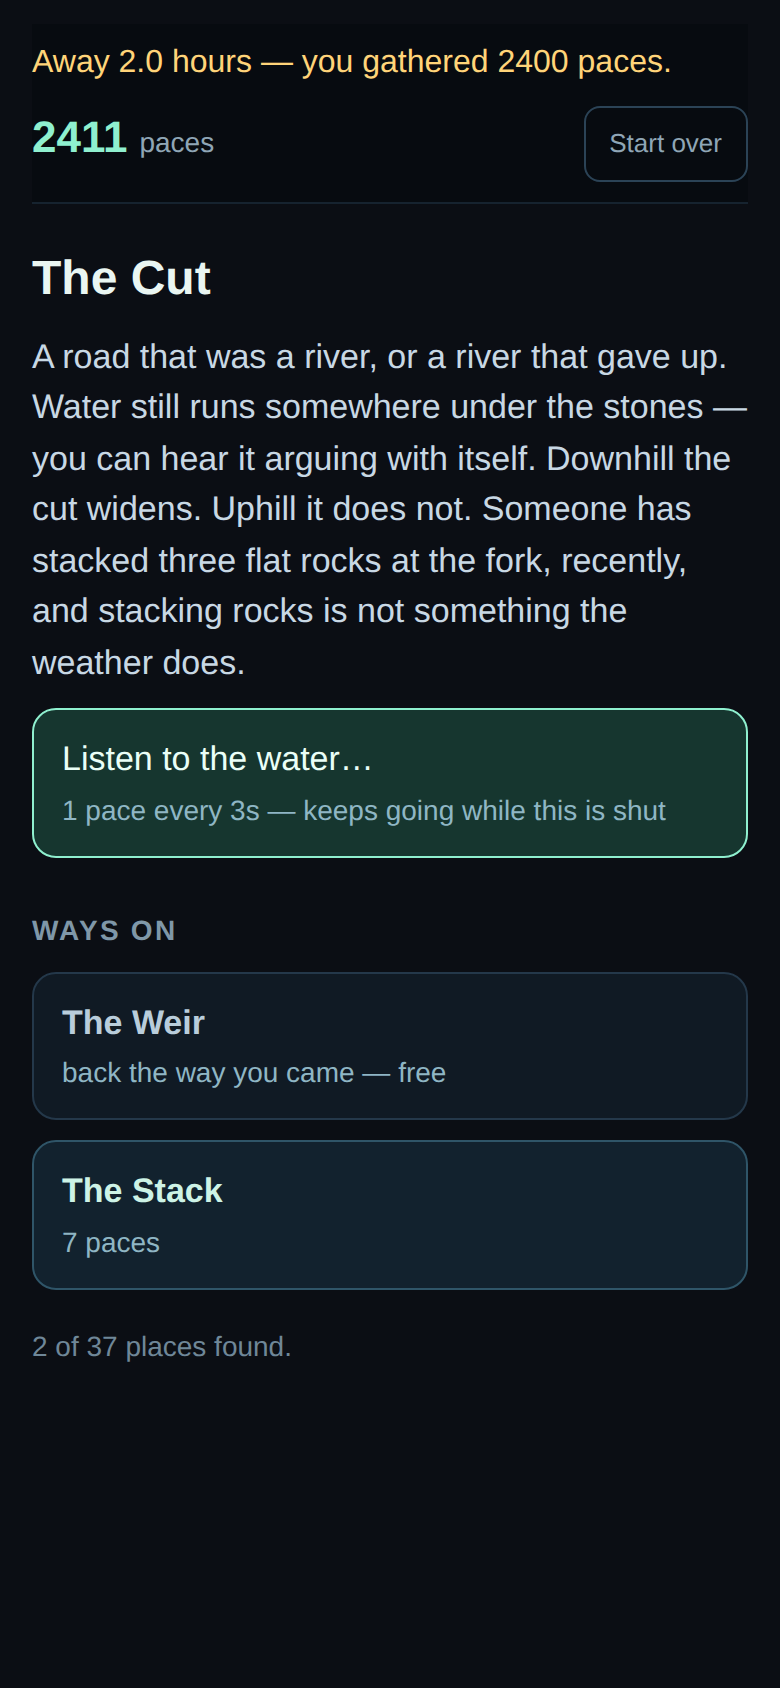
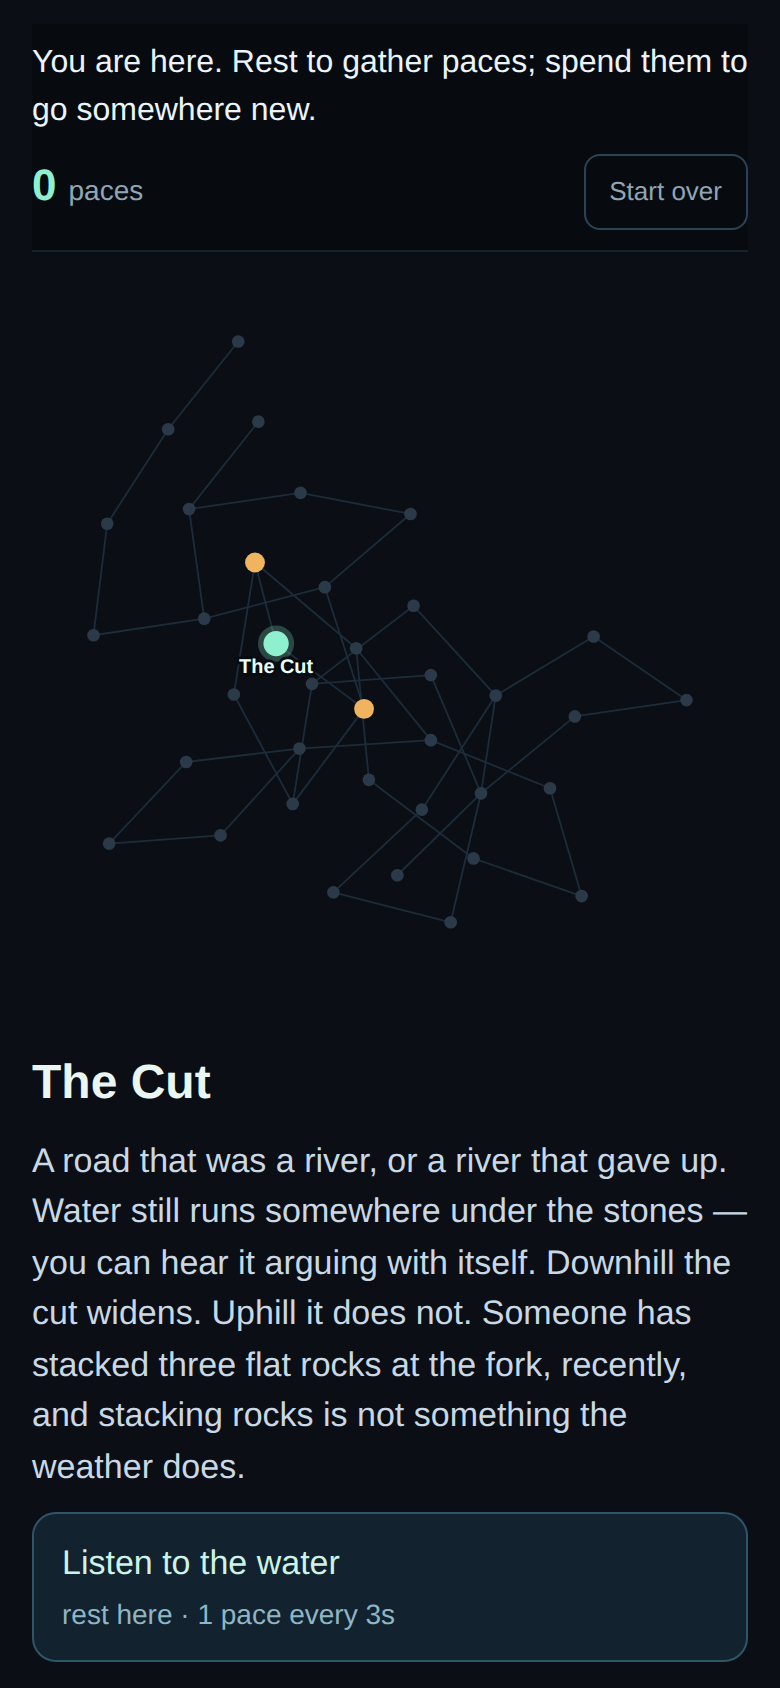
The graph is back, and it is the game again
Drawn first, biggest thing on the screen, not a view you open. What changed
is HOW it is drawn — which is the rule the brief now opens with: if the
graph is hard to draw, change the drawing, never the game.

Three things are gone, and they are exactly the three that broke:

  NO LIVE FORCE SIMULATION. The old board re-solved every frame, so every
  control was a moving target — Playwright could not click them and neither
  could a thumb. `layout.ts` runs 240 fixed passes ONCE at module load and
  the answer never changes again.

  NO CAMERA. The old one sized itself from `window.innerHeight` while the
  box was `100dvh` — different numbers on iOS whenever the URL bar shows.
  There is no camera now: the SVG carries a `viewBox` and the browser does
  the scaling. Nothing measures a window, a screen or a piece of chrome.

  NO RANDOMNESS. Same positions on every device and every load, so a
  screenshot of a bug is one anybody can reproduce.

That also turns the defect that killed the last board into a property of
the DATA rather than something only a browser could catch: "never puts two
places on top of each other" is now a unit test over the solved layout, and
the closest pair is measured rather than eyeballed. Same for "every place
fits inside the viewBox" and "neighbours end up nearer than strangers" —
the last one because a layout that ignored the edges entirely would have
passed everything else.

The valley is drawn whole from the first frame: where you stand is lit,
[…]

diff --git a/src/game/layout.ts b/src/game/layout.ts
@@ -1,0 +1,113 @@
+// WHERE EVERY PLACE SITS ON THE MAP. Solved ONCE, deterministically, at load.
+//
+// ⚠ THIS IS THE THIRD RENDERER AND IT AVOIDS WHAT ACTUALLY FAILED, not graphs.
+// `docs/BRIEF.md` opens with the rule: if the graph is hard to draw, change how
+// it is drawn — never what the game is. So what is gone is the three things
+// that broke, and nothing else:
+//
+//   NO LIVE FORCE SIMULATION. The old board re-solved every frame, which meant
+//   controls were moving targets, Playwright could not click them, and a thumb
+//   had the same problem. This runs a fixed number of passes once, at module
+//   load, and the answer never changes again.
+//
+//   NO CAMERA FITTED TO A MEASURED WINDOW. The old one sized itself from
+//   `window.innerHeight` while the box was `100dvh`, which are different
+//   numbers on iOS whenever the URL bar shows. There is no camera here: the
+//   SVG carries a `viewBox` and the browser does the scaling.
+//
+//   NO RANDOMNESS. Same positions on every device and every load, so a
+//   screenshot of a bug is a screenshot anyone can reproduce.
+import { PLACES, PLACE, START } from './places';
+
+export interface Spot { id: number; x: number; y: number }
+
+/** Rings by distance from the start, which is what a valley looks like when you
+ *  are walking out of it: where you began in the middle, the frontier at the
+ *  edge. It also guarantees a sane starting shape, so the relaxation below only
+ *  has to tidy rather than discover. */
+function seed(): Map<number, { x: number; y: number }> {
+  const depth = new Map<number, number>([[START, 0]]);
+  const q = [START];
+  while (q.length) {
+    const at = q.shift()!;
+    for (const to of PLACE.get(at)!.ways) {
+      if (depth.has(to)) continue;
+      depth.set(to, depth.get(at)! + 1);
+      q.push(to);
+    }
+  }
+  const byRing = new Map<number, number[]>();
+  for (const p of PLACES) {
+    const d = depth.get(p.id) ?? 0;
+    if (!byRing.has(d)) byRing.set(d, []);
+    byRing.get(d)!.push(p.id);
+  }
+  const pos = new Map<number, { x: number; y: number }>();
+  for (const [ring, ids] of byRing) {
+    ids.sort((a, b) => a - b);
+    const r = ring * 34;
+    ids.forEach((id, i) => {
+      // A half-turn offset per ring stops successive rings lining up into
+      // spokes, which is what makes a radial layout look like a wheel.
+      const a = (i / ids.length) * Math.PI * 2 + ring * 0.7;
+      pos.set(id, { x: Math.cos(a) * r, y: Math.sin(a) * r });
+    });
+  }
+  return pos;
+}
+
+/** A few fixed passes of "push everything apart, pull neighbours together".
+ *  Deterministic and bounded: 240 passes over 37 nodes is nothing, it happens
+ *  once, and the result is a constant for the rest of the session. */
+function relax(pos: Map<number, { x: number; y: number }>): void {
+  const ids = PLACES.map((p) => p.id);
+  for (let pass = 0; pass < 240; pass++) {
+    for (const a of ids) {
+      const pa = pos.get(a)!;
+      for (const b of ids) {
+        if (a === b) continue;
+        const pb = pos.get(b)!;
+        let dx = pa.x - pb.x, dy = pa.y - pb.y;
+        let d2 = dx * dx + dy * dy;
+        if (d2 < 1e-6) { dx = (a - b) * 1e-3; dy = 1e-3; d2 = dx * dx + dy * dy; }
+        const d = Math.sqrt(d2);
+        if (d < 46) {
+          const push = (46 - d) / d * 0.14;
+          pa.x += dx * push; pa.y += dy * push;
+        }
+      }
+    }
+    for (const p of PLACES) {
+      const pa = pos.get(p.id)!;
+      for (const to of p.ways) {
+        const pb = pos.get(to)!;
+        const dx = pb.x - pa.x, dy = pb.y - pa.y;
+        const d = Math.hypot(dx, dy) || 1;
+        const pull = (d - 62) / d * 0.06;
+        pa.x += dx * pull; pa.y += dy * pull;
+        pb.x -= dx * pull; pb.y -= dy * pull;
+      }
+    }
+  }
+}
+
+const solved = (() => {
+  const pos = seed();
+  relax(pos);
+  return PLACES.map((p) => ({ id: p.id, ...pos.get(p.id)! }));
+})();
+
+export const SPOTS: readonly Spot[] = solved;
+export const SPOT = new Map(SPOTS.map((s) => [s.id, s]));
+
+/** The box the whole map fits in, with room for a label under every dot. This
+ *  becomes the SVG's `viewBox`, which is the entire reason there is no camera:
+ *  the browser scales the box to the element and nothing here measures a
+ *  window, a screen or a piece of browser chrome. */
+export const VIEW = (() => {
+  const pad = 34;
+  const xs = SPOTS.map((s) => s.x), ys = SPOTS.map((s) => s.y);
+  const minX = Math.min(...xs) - pad, maxX = Math.max(...xs) + pad;
+  const minY = Math.min(...ys) - pad, maxY = Math.max(...ys) + pad * 1.4;
+  return { x: minX, y: minY, w: maxX - minX, h: maxY - minY };
+})();

diff --git a/src/ui/Game.svelte b/src/ui/Game.svelte
@@ -14,7 +14,8 @@
   // where you can go. The graph comes back when it has earned its way back, as
   // a thing you open — not as the floor everything else is balanced on.
   import { onMount } from 'svelte';
-  import { PLACE } from '../game/places';
+  import { PLACE, PLACES } from '../game/places';
+  import { SPOT, VIEW } from '../game/layout';
   import { apply, initial, waysFrom, waitFor, SECS_PER_PACE,
     type Game, type Action } from '../game/engine';
   import { load, save, wipe, elapsedSince } from '../game/store';
@@ -99,6 +100,37 @@
     };
   });
 
+  /** Everything the map draws, decided here so the markup stays a shape.
+   *  A place you have not reached has no name on it — the valley is drawn, but
+   *  what is out there is not spoiled. */
+  const map = $derived.by(() => {
+    const reachable = new Map(ways.map((w) => [w.to, w]));
+    return {
+      edges: PLACES.flatMap((p) => p.ways
+        .filter((to) => to > p.id)
+        .map((to) => ({
+          key: `${p.id}-${to}`,
+          a: SPOT.get(p.id)!, b: SPOT.get(to)!,
+          // An edge you could take right now is the one that matters.
+          live: (p.id === game.at && reachable.get(to)?.why === null)
+            || (to === game.at && reachable.get(p.id)?.why === null),
+          known: game.seen.includes(p.id) && game.seen.includes(to),
+        }))),
+      dots: PLACES.map((p) => {
+        const w = reachable.get(p.id);
+        return {
+          id: p.id,
+          at: SPOT.get(p.id)!,
+          name: game.seen.includes(p.id) ? p.name : '',
+          you: p.id === game.at,
+          open: w !== undefined && w.why === null,
+          shut: w !== undefined && w.why !== null,
+          known: game.seen.includes(p.id),
+        };
+      }),
+    };
+  });
+
   const mmss = (s: number): string =>
     s >= 60 ? `${Math.floor(s / 60)}m ${Math.round(s % 60)}s` : `${Math.round(s)}s`;
 </script>
@@ -113,6 +145,32 @@
       </button>
     </div>
   </header>
+
+  <!-- ★ THE GRAPH IS THE GAME (`docs/BRIEF.md`, the north star). It is drawn
+       first, it is the biggest thing on the screen, and it is not a view you
+       open — you are looking at the valley and standing in it.
+
+       SVG with a `viewBox` and no width/height of its own: the browser scales
+       the whole box to the column, so there is no camera, nothing measured
+       against the window, and no alignment left to get wrong. The layout came
+       out of `layout.ts` already solved, so nothing here moves after the first
+       paint. -->
+  <section class="map">
+    <svg viewBox="{VIEW.x} {VIEW.y} {VIEW.w} {VIEW.h}" role="img"
+      aria-label="the valley, {game.seen.length} of {PLACE.size} places found">
+      {#each map.edges as e (e.key)}
+        <line x1={e.a.x} y1={e.a.y} x2={e.b.x} y2={e.b.y}
+          class:live={e.live} class:known={e.known} />
+      {/each}
+      {#each map.dots as d (d.id)}
+        <g class:you={d.you} class:open={d.open} class:shut={d.shut}
+          class:known={d.known}>
+          <circle cx={d.at.x} cy={d.at.y} r={d.you ? 7 : d.open || d.shut ? 5.5 : 3.5} />
+          {#if d.name}<text x={d.at.x} y={d.at.y + 16}>{d.name}</text>{/if}
+        </g>
+      {/each}
+    </svg>
+  </section>
 
   <section class="place">
     <h1>{here.name}</h1>
@@ -180,6 +238,26 @@
   .reset { margin-left: auto; padding: 8px 12px; border-radius: 8px;
     background: none; border: 1px solid #2b4356; color: #8fa6b6; font: inherit;
     font-size: 13px; }
+
+  .map { margin: 14px 0 4px; }
+  /* No `overflow: visible` — the viewBox already carries padding for the
+     labels, and letting the drawing escape its own box is how it ended up
+     under the sticky header. */
+  .map svg { display: block; width: 100%; height: auto; }
+  .map line { stroke: #1d2c3a; stroke-width: 1; }
+  .map line.known { stroke: #2b4356; }
+  .map line.live { stroke: #8ff0cf; stroke-width: 2; }
+  .map circle { fill: #2b3a49; }
+  .map .known circle { fill: #4d6b80; }
+  .map .open circle { fill: #78e8c0; }
+  .map .shut circle { fill: #f0b45f; }
+  .map .you circle { fill: #8ff0cf; stroke: #8ff0cf; stroke-width: 6;
+    stroke-opacity: .25; }
+  .map text { fill: #7f97a8; font-size: 11px; text-anchor: middle;
+    paint-order: stroke; stroke: #070b10; stroke-width: 3px; }
+  .map .you text { fill: #eafff7; font-weight: 700; }
+  .map .open text { fill: #bff3e0; }
+  .map .shut text { fill: #f3d6a8; }
 
   h1 { margin: 20px 0 8px; font-size: 24px; }
   h2 { margin: 26px 0 8px; font-size: 14px; letter-spacing: .08em;

diff --git a/test/layout.test.ts b/test/layout.test.ts
@@ -1,0 +1,62 @@
+import { describe, it, expect } from 'vitest';
+import { SPOTS, SPOT, VIEW } from '../src/game/layout';
+import { PLACES, PLACE } from '../src/game/places';
+
+describe('the map layout', () => {
+  it('places every place exactly once, with real numbers', () => {
+    expect(SPOTS.length).toBe(PLACES.length);
+    for (const s of SPOTS) {
+      expect(Number.isFinite(s.x), `${s.id} x`).toBe(true);
+      expect(Number.isFinite(s.y), `${s.id} y`).toBe(true);
+    }
+    expect(new Set(SPOTS.map((s) => s.id)).size).toBe(PLACES.length);
+  });
+
+  it('★ never puts two places on top of each other', () => {
+    // The defect that killed the last board: dots close enough that a tap hit
+    // the wrong one. Here it is a property of the data, checkable without a
+    // browser, because the layout is solved once and never moves again.
+    let worst = Infinity; let pair = '';
+    for (let i = 0; i < SPOTS.length; i++) {
+      for (let j = i + 1; j < SPOTS.length; j++) {
+        const d = Math.hypot(SPOTS[i]!.x - SPOTS[j]!.x, SPOTS[i]!.y - SPOTS[j]!.y);
+        if (d < worst) { worst = d; pair = `${PLACE.get(SPOTS[i]!.id)!.name} / ${PLACE.get(SPOTS[j]!.id)!.name}`; }
+      }
+    }
+    expect(worst, `closest pair ${pair} at ${worst.toFixed(1)} units`).toBeGreaterThan(24);
+  });
+
+  it('fits every place inside the viewBox', () => {
+    for (const s of SPOTS) {
+      expect(s.x, `${s.id}`).toBeGreaterThanOrEqual(VIEW.x);
+      expect(s.x, `${s.id}`).toBeLessThanOrEqual(VIEW.x + VIEW.w);
+      expect(s.y, `${s.id}`).toBeGreaterThanOrEqual(VIEW.y);
+      expect(s.y, `${s.id}`).toBeLessThanOrEqual(VIEW.y + VIEW.h);
+    }
+    expect(VIEW.w).toBeGreaterThan(0);
+    expect(VIEW.h).toBeGreaterThan(0);
+  });
+
+  it('is the same every time — no clock, no randomness', () => {
+    // Asserted on the actual numbers rather than on the absence of Math.random,
+    // because "deterministic" is the property, not the implementation.
+    const a = SPOTS.map((s) => `${s.id}:${s.x.toFixed(6)},${s.y.toFixed(6)}`).join('|');
+    const b = [...SPOT.values()].map((s) => `${s.id}:${s.x.toFixed(6)},${s.y.toFixed(6)}`).join('|');
+    expect(a).toBe(b);
+  });
+
+  it('keeps neighbours nearer than strangers, on average', () => {
+    // A layout that ignored the edges would still pass everything above.
+    const dist = (a: number, b: number): number =>
+      Math.hypot(SPOT.get(a)!.x - SPOT.get(b)!.x, SPOT.get(a)!.y - SPOT.get(b)!.y);
+    let near = 0, nearN = 0, far = 0, farN = 0;
+    for (const p of PLACES) {
+      for (const q of PLACES) {
+        if (p.id === q.id) continue;
+        if (p.ways.includes(q.id)) { near += dist(p.id, q.id); nearN++; }
+        else { far += dist(p.id, q.id); farN++; }
+      }
+    }
+    expect(near / nearN).toBeLessThan(far / farN);
+  });
+});
